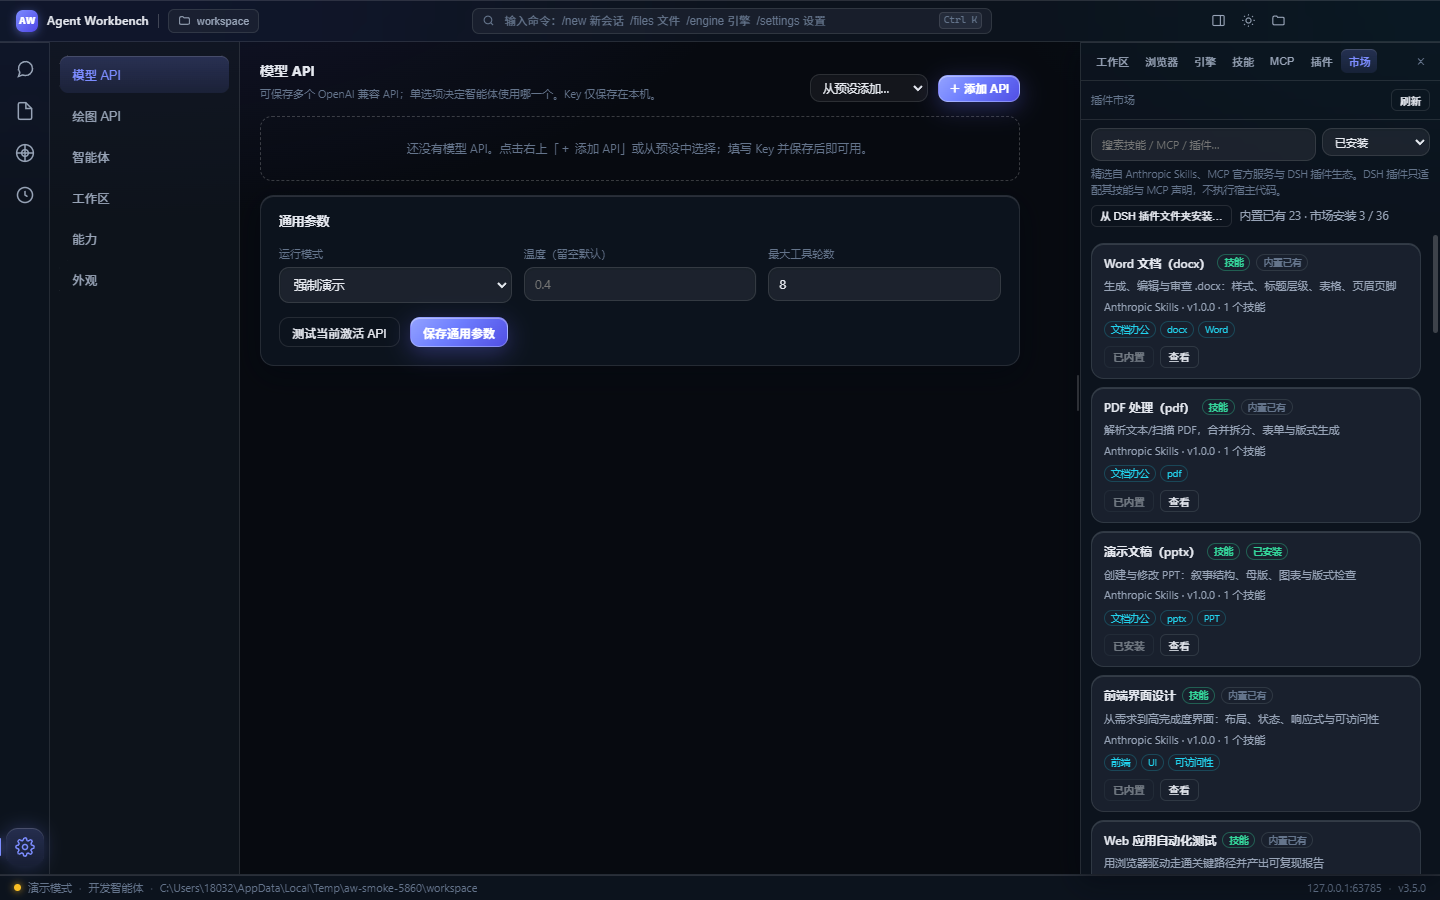
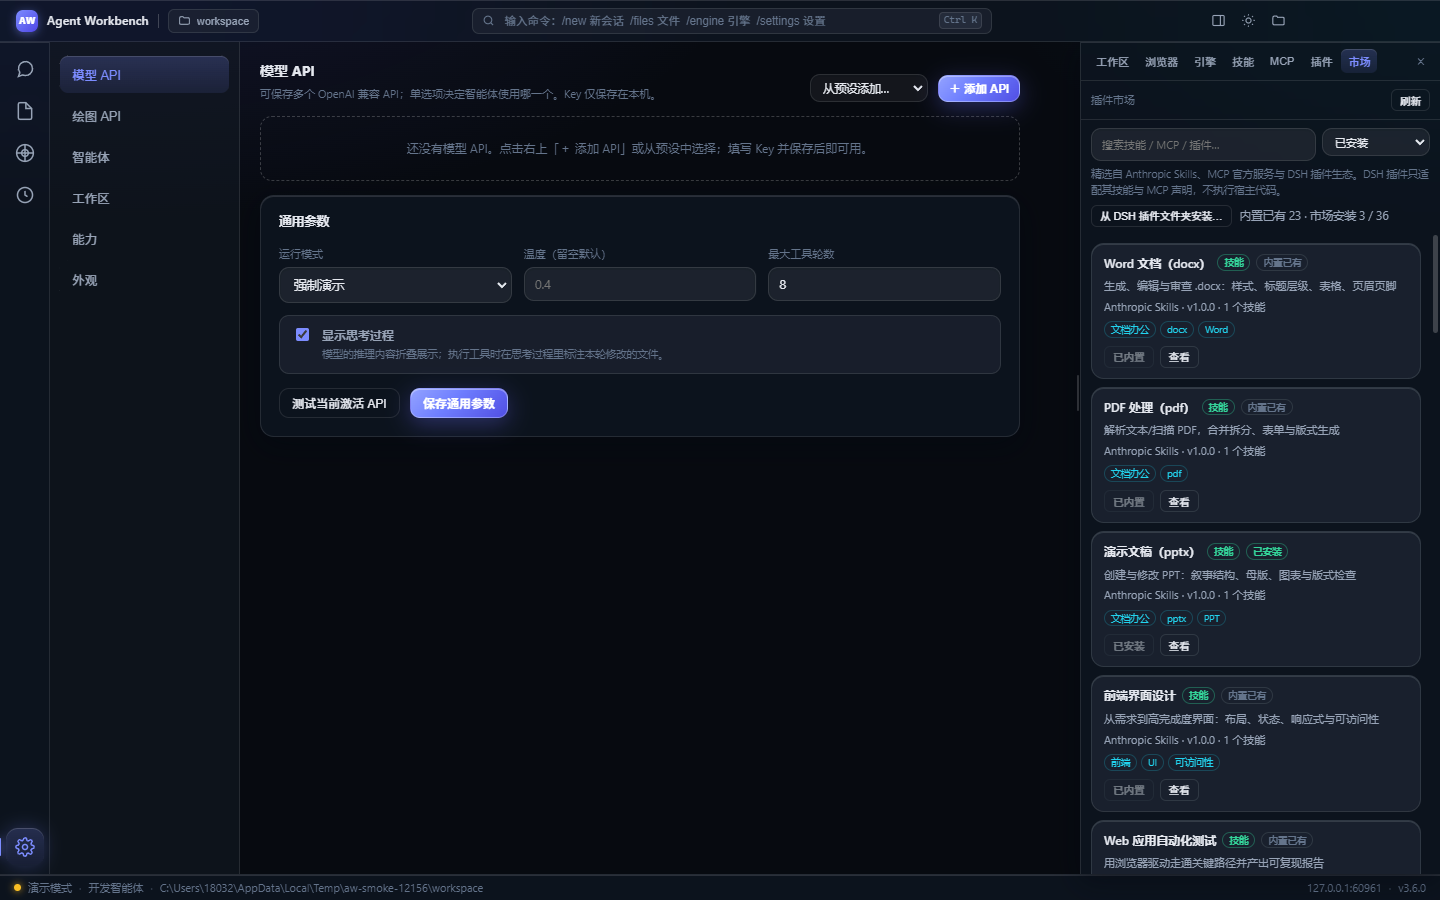
docs: v3.6.0 思考过程、会话状态、游戏模板与绘图修复

Changed region(s): [[0.1875, 0.3422, 0.6875, 0.4978], [0.2812, 0.9644, 0.3125, 0.9956]]

diff --git a/README.md b/README.md
@@ -1,9 +1,9 @@
 # Agent Workbench · 为 AI 开发而生的本地工作台
 
-> 一个把「对话、工具调用、智能体团队、网页引擎、技能、MCP 与插件市场」收进同一个桌面窗口的 AI 开发工作台。
+> 一个把「对话、工具调用、智能体团队、网页 / 游戏创作引擎、技能、MCP 与插件市场」收进同一个桌面窗口的 AI 开发工作台。
 > 数据、模型密钥与项目文件全部留在本机，便携版解压即用。
 
-当前版本 **v3.5.0**，基于 Electron 33，主进程内嵌零依赖本地服务，界面为原生 HTML/CSS/JS，无前端构建链。
+当前版本 **v3.6.0**，基于 Electron 33，主进程内嵌零依赖本地服务，界面为原生 HTML/CSS/JS，无前端构建链。
 
 ![对话与工具时间线](screenshots/01-chat.png)
 
@@ -24,7 +24,7 @@ Agent Workbench 的思路是把整套开发闭环搬进桌面：
 
 | 模块 | 能力 |
 |---|---|
-| 对话 | SSE 流式输出；工具调用时间线（参数/结果可展开）；停止生成；Markdown 渲染；图片灯箱 |
+| 对话 | SSE 流式输出；可折叠思考过程（可在设置关闭，并标注本轮修改的文件）；工具调用时间线；停止生成；Markdown 渲染；图片灯箱 |
 | 工具 | `list_dir` `read_file` `write_file` `search_files` `run_command` `generate_image` `web_engine`（最多 8 轮可调） |
 | 智能体 | 多个智能体，独立绑定模型、温度、工具白名单、技能与系统提示词 |
 | 智能体团队 | 负责人拆解子任务 → 成员按序执行 → 负责人汇总，聊天中展示分工卡片与成员流式输出 |
@@ -32,28 +32,42 @@ Agent Workbench 的思路是把整套开发闭环搬进桌面：
 | 技能 | 23 个内置技能（代码审查、单元测试、Git 提交、前端设计、Web 自动化测试…），启用后注入系统提示词 |
 | MCP | 16 个内置精选服务；stdio 与 streamable-http；环境变量；工具按 `mcp__server__tool` 暴露 |
 | 插件市场 | 36 条离线精选目录，技能 / MCP / 插件 / DSH 适配四类，搜索、筛选、一键安装与去重 |
-| 网页引擎 | 5 套零依赖模板、独立预览服务器、保存热更新、静态诊断、浏览器运行错误回传（见下节） |
+| 创作引擎 | 5 套网页模板 + 3 套 Canvas 游戏模板、独立预览服务器、保存热更新、静态诊断、浏览器运行错误回传（见下节） |
 | 外观 | iOS 液态玻璃、深/亮主题、自定义聊天背景、智能体与团队头像 |
-| 历史 | 会话持久化到本地，可回看、删除、导出 Markdown |
+| 历史 | 会话持久化到本地；任务状态徽标（运行中 / 完成 / 中断 / 失败）与工具、文件统计；可回看、删除、导出 Markdown |
 
-## 内置网页引擎（v3.5.0 新增）
+## v3.6.0 更新
 
-这是 v3.5.0 的主角：一个**专供 Agent 开发网页**的完整闭环，不依赖 npm 脚手架，也不依赖外部浏览器。
+- **思考过程（可选）**：设置 → 模型 API → 通用参数新增「显示思考过程」。模型返回推理内容时，对话中展示可折叠面板：流式字数与耗时，完成后折叠为「已思考 Ns」；执行 `write_file` 时在面板标题旁标注本轮修改的文件，历史回看保留同样结构。
+- **会话任务状态**：右侧栏新增运行中 / 已完成 / 已中断 / 失败与消息、工具、文件、图片统计；历史列表显示状态徽标与统计，运行中的会话每 3 秒自动刷新。侧栏改为可折叠分组，工具按文件 / 执行 / 媒体 / 创作 / MCP 分类。
+- **绘图链路修复**：请求超时保护、按模型映射尺寸、接口拒绝 `size` 等参数时自动回退重试、兼容多种返回结构、下载鉴权重试；绘图 API 设置页新增「测试生成」。
+- **创作引擎扩展游戏模板**：贪吃蛇、打砖块、横版跳跃三套零依赖 Canvas 游戏，与网页模板共用预览服务器、热更新与诊断。
 
-- **5 套可运行模板**：空白起点、产品落地页、数据仪表盘、任务管理应用、文档站。全部零依赖、可离线运行，含真实交互——Canvas 图表、价格切换、localStorage 任务管理、文档搜索与代码复制。
+![思考过程与文件标注](screenshots/15-thinking.png)
+
+## 内置创作引擎：网页 + 游戏
+
+这是工作台的核心闭环之一：**专供 Agent 开发网页与小游戏**，不依赖 npm 脚手架，也不依赖外部浏览器。
+
+- **8 套可运行模板**：5 套网页（空白起点、产品落地页、数据仪表盘、任务管理应用、文档站）+ 3 套游戏（贪吃蛇、打砖块、横版跳跃）。全部零依赖、可离线运行；网页模板含 Canvas 图表、价格切换、localStorage 任务、文档搜索；游戏模板含计分、生命/关卡、暂停、重开、最高分本地保存与键盘/触屏控制。
+- **目录与分组**：网页创建在 `web/<名称>`，游戏创建在 `games/<名称>`；新建表单按「网页模板 / 游戏模板」分组，项目卡片带类型标签。
 - **独立预览服务器**：每个项目在 `127.0.0.1` 随机端口启动静态服务器，支持 SPA 回退、Range 请求与常见资源 MIME；只允许本地回环访问，`.env` / `.git` 等隐藏文件一律 403。
 - **保存即热更新**：目录监听 + SSE。CSS 改动只替换样式链接，其它文件整页刷新，无需手动刷新。
 - **诊断**：检查缺失的本地资源、重复 id、脚本查找但 HTML 中不存在的元素、经典 JS 语法、CSS 括号；并汇总浏览器运行错误（`window.onerror`、未处理 Promise、`console.error`、资源加载失败）。
 - **智能体工具**：`web_engine` 注册进工具循环，动作覆盖 `templates / create / register / start / stop / inspect / status / list / remove`。`start` 返回预览地址，聊天工具卡直接出现「打开网页预览」按钮。
-- **系统引导**：系统提示词会要求模型开发网页时优先使用内置引擎，而不是另起脚手架。
+- **系统引导**：系统提示词会要求模型开发网页或小游戏时优先使用内置引擎，而不是另起脚手架。
 
 典型对话：
 
-> 用 web_engine 建一个数据仪表盘，启动预览并检查所有错误。
+> 用 web_engine 的游戏模板做一个贪吃蛇，改成双倍加速，启动预览并检查运行错误。
 
 智能体会按 `templates → create → 编辑文件 → start → inspect` 执行；文件工具仍受工作区沙箱限制。
 
-![网页引擎与诊断](screenshots/14-engine.png)
+![创作引擎与诊断](screenshots/14-engine.png)
+
+![游戏模板诊断](screenshots/16-engine-games.png)
+
+![贪吃蛇实机运行](screenshots/17-game-play.png)
 
 ## 智能体、团队与权限
 
@@ -100,7 +114,7 @@ Agent Workbench 的思路是把整套开发闭环搬进桌面：
 
 ## 快速开始
 
-从 [Releases](https://github.com/1323107439/agent-workbench/releases/tag/v3.5.0) 下载 `AgentWorkbench-3.5.0-portable.exe`（74.3MB），双击即可运行，无需安装（未签名，SmartScreen 提示时选择"仍要运行"）。
+从 [Releases](https://github.com/1323107439/agent-workbench/releases/tag/v3.6.0) 下载 `AgentWorkbench-3.6.0-portable.exe`（约 71MB），双击即可运行，无需安装（未签名，SmartScreen 提示时选择"仍要运行"）。
 
 1. 标题栏文件夹按钮选择工作区；设置 → 模型 API 添加 OpenAI 兼容端点（OpenAI / DeepSeek / 通义 / 智谱 / Kimi / Ollama 预设，或手填 Base URL / Key / 模型）。
 2. 未填 Key 时自动进入演示模式：流式回复、扫描工作区、演示生图（本地 SVG），可先验证功能。
@@ -112,7 +126,7 @@ Agent Workbench 的思路是把整套开发闭环搬进桌面：
 ```bash
 npm install
 npm start          # 桌面窗口
-npm run smoke      # 无头自检（33 项，含截图）
+npm run smoke      # 无头自检（37 项，含截图）
 npm run build      # 打包 release/AgentWorkbench-<版本>-portable.exe
 ```
 
@@ -126,14 +140,14 @@ server/llm.js         OpenAI 兼容流式调用 + tool_calls 拼装 + 重试 + D
 server/tools.js       工作区沙箱工具（文件 / 搜索 / 命令）
 server/team.js        智能体团队编排：拆解 → 成员执行 → 汇总
 server/approvals.js   工具审批队列（SSE 推送 / 决策 / 断流取消）
-server/webengine.js   网页引擎：模板脚手架、预览服务器、SSE 热更新、静态诊断
-server/webtemplates/  5 套零依赖网页模板
+server/webengine.js   创作引擎：网页 / 游戏模板、预览服务器、SSE 热更新、静态诊断
+server/webtemplates/  8 套零依赖模板（网页 5 + 游戏 3）
 public/               液态玻璃界面（原生 HTML/CSS/JS，无构建）
 ```
 
 ## 质量验证
 
-- 开发版 `npm run smoke` 与打包版 `AgentWorkbench.exe --smoke`：**33 项全部通过**，覆盖多 API、技能、MCP、插件与市场、DSH 导入、DeepSeek 适配、团队会话、审批闭环、网页引擎（模板 / 预览服务器 / 热更新 / 诊断 / 模型调用闭环）、DOM 与玻璃样式、各视图截图。
+- 开发版 `npm run smoke` 与打包版 `AgentWorkbench.exe --smoke`：**37 项全部通过**，覆盖多 API、技能、MCP、插件与市场、DSH 导入、DeepSeek 适配、团队会话、审批闭环、创作引擎（网页 / 游戏模板、预览服务器、热更新、诊断、模型调用闭环）、**真实绘图（尺寸被拒自动回退 / 测试接口）**、**思考流 / 历史任务状态 / 修改文件标注 / 思考开关**、**贪吃蛇在内置浏览器的 Canvas 绘制与键盘转向**、DOM 与玻璃样式、各视图截图。
 - 5 套网页模板在真实浏览器逐套实测：控制台无错误、无横向溢出；价格/主题切换、Canvas 图表绘制、任务增删与持久化、文档搜索与代码复制均正常。
 
 ## 界面一览
@@ -142,7 +156,8 @@ public/               液态玻璃界面（原生 HTML/CSS/JS，无构建）
 |---|---|
 | ![文件树与编辑器](screenshots/02-files.png) | ![内置浏览器](screenshots/04-browser.png) |
 | ![右侧 Dock](screenshots/06-dock.png) | ![外观与背景](screenshots/09-appearance.png) |
-| ![DSH 插件分类](screenshots/12-market-dsh.png) | ![网页引擎](screenshots/14-engine.png) |
+| ![DSH 插件分类](screenshots/12-market-dsh.png) | ![创作引擎](screenshots/14-engine.png) |
+| ![游戏模板](screenshots/16-engine-games.png) | ![贪吃蛇实机](screenshots/17-game-play.png) |
 
 ## 来源与许可
 
